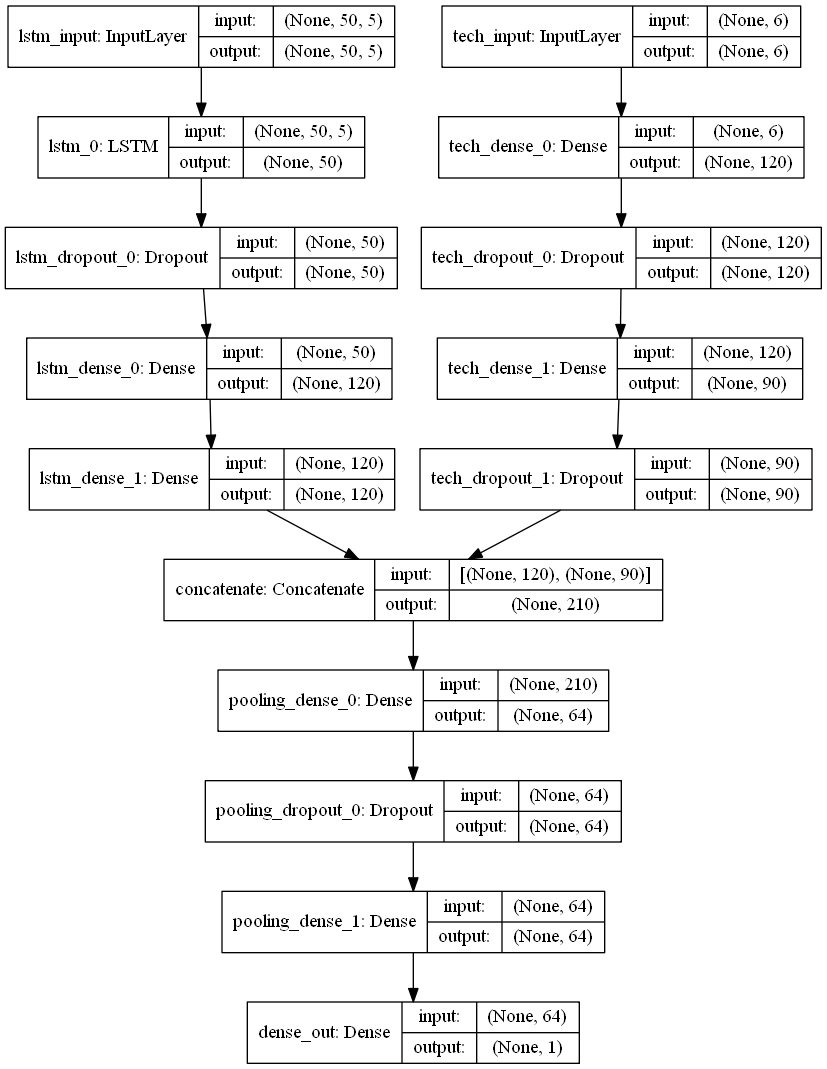
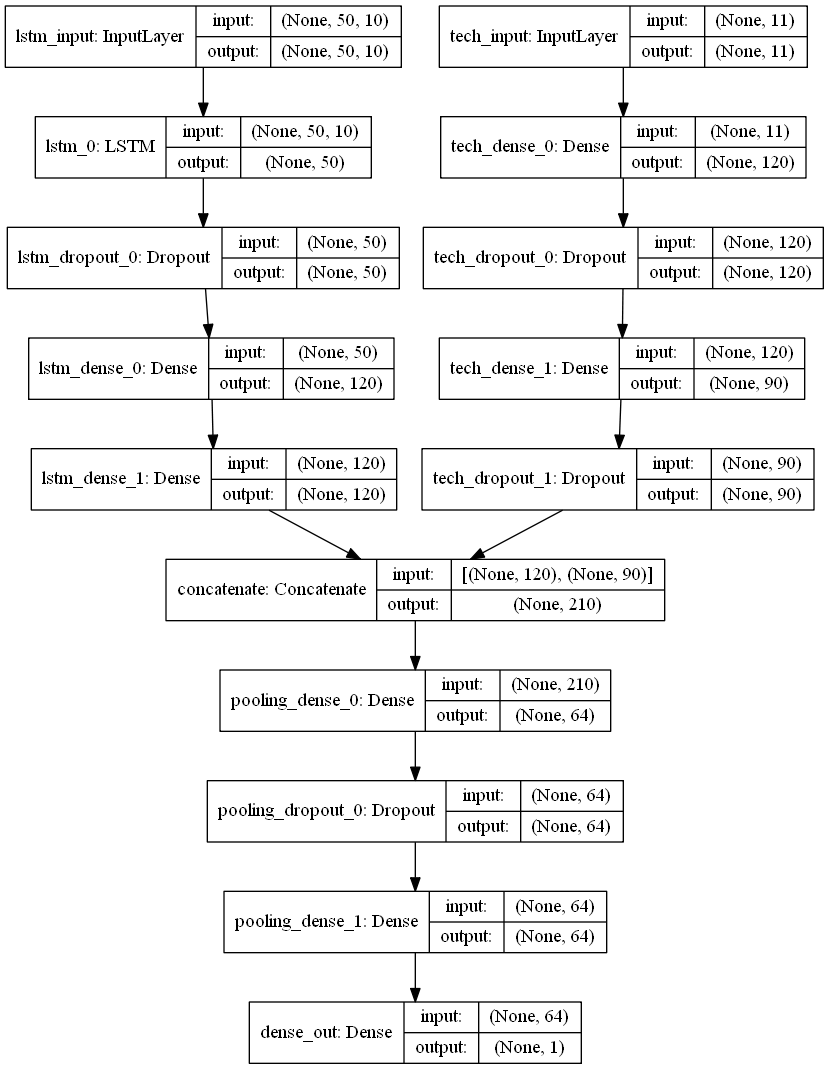
multi stock model

diff --git a/DataTransformer.py b/DataTransformer.py
@@ -3,6 +3,61 @@ from sklearn import preprocessing
 import numpy as np
 import statistics
 from DataModels import *
+import category_encoders as ce
+
+def add_column(arr, index):
+    indices = np.zeros((arr.shape[0], 1))
+    indices[:,0] = index
+    return np.append(arr, indices, axis=1)
+
+def multi_csv_to_dataset(paths: [str]):
+    index = 0
+    y_normalizers = []
+    for path in paths:
+        index = index + 1
+        transformed_data = csv_to_dataset(path)
+        y_normalizers.append(transformed_data.y_normalisers[0])
+        symbol_data = transformed_data.stock_data
+
+        # add index column
+        indices_ohlcv = np.zeros((symbol_data.ohlcv_histories.shape[0], symbol_data.ohlcv_histories.shape[1], 1))
+        indices_ohlcv[:,:,0] = index
+        symbol_data.ohlcv_histories = np.append(symbol_data.ohlcv_histories, indices_ohlcv, axis=2)
+
+        indices_tech_ind = np.zeros((symbol_data.technical_indicators.shape[0], 1))
+        indices_tech_ind[:,0] = index
+        symbol_data.technical_indicators = np.append(symbol_data.technical_indicators, indices_tech_ind, axis=1)
+
+        if index == 1:
+            dataset = symbol_data
+        else:
+            dataset.technical_indicators = np.concatenate([dataset.technical_indicators, symbol_data.technical_indicators])
+            dataset.ohlcv_histories = np.concatenate([dataset.ohlcv_histories, symbol_data.ohlcv_histories])
+            dataset.next_day_open_values = np.concatenate([dataset.next_day_open_values, symbol_data.next_day_open_values])
+
+    dataset.symbols_count = 5#len(paths)
+
+    # swap the index column to one-hot multiple columns
+    ohe = preprocessing.OneHotEncoder()
+    ohe.fit(dataset.technical_indicators[:,-1].reshape(-1,1))
+
+    ohlcv_index_cols = np.zeros((dataset.ohlcv_histories.shape[0], dataset.ohlcv_histories.shape[1], 5))
+    ohlcv_index_cols[:,:,0] = 1
+
+    #ohlcv_index_cols = ohe.transform(dataset.ohlcv_histories[:,:,-1].reshape(-1,1)).toarray()\
+    #    .reshape(dataset.ohlcv_histories.shape[0], dataset.ohlcv_histories.shape[1], -1)
+
+    dataset.ohlcv_histories = np.delete(dataset.ohlcv_histories, -1, axis=2)
+    dataset.ohlcv_histories = np.append(dataset.ohlcv_histories, ohlcv_index_cols, axis=2)
+
+    #tech_ind_index_cols = ohe.transform(dataset.technical_indicators[:,-1].reshape(-1,1)).toarray().reshape(dataset.technical_indicators.shape[0],-1)
+    tech_ind_index_cols = np.zeros((dataset.technical_indicators.shape[0],5))
+    tech_ind_index_cols[:,0] = 1
+    dataset.technical_indicators = np.delete(dataset.technical_indicators, -1, axis=1)
+    dataset.technical_indicators = np.append(dataset.technical_indicators, tech_ind_index_cols, axis=1)
+
+    return TransformedData(dataset, y_normalizers, ohe)
+        
 
 def csv_to_dataset(csv_path):
     data = pd.read_csv(csv_path)
@@ -38,8 +93,8 @@ def csv_to_dataset(csv_path):
 
     # pylint: disable=E1136  # pylint/issues/3139
     assert ohlcv_histories_normalized.shape[0] == next_day_open_values_normalized.shape[0] == technical_indicators_normalised.shape[0]
-    stock_data = StockData(ohlcv_histories_normalized, technical_indicators, next_day_open_values_normalized)
-    return TransformedData(stock_data, y_normalizer)
+    stock_data = StockData(ohlcv_histories_normalized, technical_indicators, next_day_open_values_normalized, 1)
+    return TransformedData(stock_data, [y_normalizer], None)
 
 def get_technical_indicators(histories):
     def calc_ema(values, time_period):

diff --git a/ModelBuilder.py b/ModelBuilder.py
@@ -46,21 +46,43 @@ class ModelBuilder:
         return model
 
     def split_test_data(self, dataset: TransformedData, test_split: float):
-        n = int(dataset.stock_data.ohlcv_histories.shape[0] * test_split) # ohlcv_histories.shape looks like (1168, 50, 5)
 
-        ohlcv_train = dataset.stock_data.ohlcv_histories[:n]
-        tech_ind_train = dataset.stock_data.technical_indicators[:n]
-        next_day_train = dataset.stock_data.next_day_open_values[:n]
-        train_dataset = StockData(ohlcv_train, tech_ind_train, next_day_train)
+        tech_ind_dims = dataset.stock_data.technical_indicators.shape[1] # technical_indicators.shape looks like (1168, 5)
+        ohlcv_shape = dataset.stock_data.ohlcv_histories.shape
 
-        ohlcv_test = dataset.stock_data.ohlcv_histories[n:]
-        tech_ind_test = dataset.stock_data.technical_indicators[n:]
-        next_day_test = dataset.stock_data.next_day_open_values[n:]
-        test_dataset = StockData(ohlcv_test, tech_ind_test, next_day_test)
+        ohlcv_train = np.empty((0, ohlcv_shape[1], ohlcv_shape[2]))
+        tech_ind_train = np.empty((0, tech_ind_dims))
+        next_day_train = np.empty((0))
 
-        return ModelTestingData(None, train_dataset, test_dataset, dataset.y_normaliser)
+        ohlcv_test = np.empty((0, ohlcv_shape[1], ohlcv_shape[2]))
+        tech_ind_test = np.empty((0, tech_ind_dims))
+        next_day_test = np.empty((0))
 
-        
+        tech_ind_symbols_range = range(tech_ind_dims-1, tech_ind_dims - 1 - dataset.stock_data.symbols_count, -1)
+
+        for i in tech_ind_symbols_range:
+            this_symbol = np.empty((0, tech_ind_dims))
+            next_day = np.empty((0))
+            ohlcv = np.empty((0, ohlcv_shape[1], ohlcv_shape[2]))
+            for j in range(len(dataset.stock_data.technical_indicators)):
+                tech_inds =  dataset.stock_data.technical_indicators[j]
+                if tech_inds[i] == 1:
+                    this_symbol = np.append(this_symbol, tech_inds.reshape(1,-1), axis=0)
+                    next_day = np.append(next_day, dataset.stock_data.next_day_open_values[j], axis=0)
+                    ohlcv = np.append(ohlcv, dataset.stock_data.ohlcv_histories[j].reshape((1,ohlcv_shape[1], ohlcv_shape[2])), axis=0)
+
+            n = int(this_symbol.shape[0] * test_split) 
+            ohlcv_train = np.append(ohlcv_train, ohlcv[:n], axis=0)
+            tech_ind_train = np.append(tech_ind_train, this_symbol[:n], axis=0)
+            next_day_train = np.append(next_day_train, next_day[:n], axis=0)
+            ohlcv_test = np.append(ohlcv_test, ohlcv[n:], axis=0)
+            tech_ind_test = np.append(tech_ind_test, this_symbol[n:], axis=0)
+            next_day_test = np.append(next_day_test, next_day[n:], axis=0)
+
+        train_dataset = StockData(ohlcv_train, tech_ind_train, next_day_train, dataset.stock_data.symbols_count)
+        test_dataset = StockData(ohlcv_test, tech_ind_test, next_day_test, dataset.stock_data.symbols_count)
+        assert train_dataset.ohlcv_histories.shape[0] + test_dataset.ohlcv_histories.shape[0] == dataset.stock_data.ohlcv_histories.shape[0]
+        return ModelTestingData(None, train_dataset, test_dataset, dataset.y_normalisers)
 
 
     def build_model(self, dataset, epochs: int):

diff --git a/ModelEvaluator.py b/ModelEvaluator.py
@@ -10,11 +10,11 @@ class ModelEvaluator:
         return y_predicted
 
     def plot(self, dataset: ModelTestingData):
-        y_test_predicted = self.predict(dataset.model, dataset.test_data, dataset.y_normaliser)
-        y_predicted = self.predict(dataset.model, dataset.train_data, dataset.y_normaliser)
+        y_test_predicted = self.predict(dataset.model, dataset.test_data, dataset.y_normalisers[0])
+        y_predicted = self.predict(dataset.model, dataset.train_data, dataset.y_normalisers[0])
 
-        unscaled_y_test = dataset.y_normaliser.inverse_transform(dataset.test_data.next_day_open_values)
-        unscaled_y_train = dataset.y_normaliser.inverse_transform(dataset.train_data.next_day_open_values)
+        unscaled_y_test = dataset.y_normalisers[0].inverse_transform(dataset.test_data.next_day_open_values.reshape(-1,1))
+        unscaled_y_train = dataset.y_normalisers[0].inverse_transform(dataset.train_data.next_day_open_values.reshape(-1,1))
 
         assert unscaled_y_test.shape == y_test_predicted.shape
         real_mse = np.mean(np.square(unscaled_y_test - y_test_predicted))
@@ -41,9 +41,9 @@ class ModelEvaluator:
             dataset.test_data.next_day_open_values)
         print("evaluation: " + str(evaluation))
 
-        y_test_predicted = self.predict(dataset.model, dataset.test_data, dataset.y_normaliser)
+        y_test_predicted = self.predict(dataset.model, dataset.test_data, dataset.y_normalisers[0])
 
-        unscaled_y_test = dataset.y_normaliser.inverse_transform(dataset.test_data.next_day_open_values)
+        unscaled_y_test = dataset.y_normalisers[0].inverse_transform(dataset.test_data.next_day_open_values.reshape(-1,1))
 
         assert unscaled_y_test.shape == y_test_predicted.shape
         real_mse = np.mean(np.square(unscaled_y_test - y_test_predicted))
@@ -51,9 +51,9 @@ class ModelEvaluator:
         print("scaled mean square error (test): " + str(scaled_mse))
 
         # also getting predictions for the entire dataset, just to see how it performs
-        y_predicted = self.predict(dataset.model, dataset.train_data, dataset.y_normaliser)
+        y_predicted = self.predict(dataset.model, dataset.train_data, dataset.y_normalisers[0])
 
-        unscaled_y_train = dataset.y_normaliser.inverse_transform(dataset.train_data.next_day_open_values)
+        unscaled_y_train = dataset.y_normalisers[0].inverse_transform(dataset.train_data.next_day_open_values.reshape(-1,1))
 
         assert unscaled_y_train.shape == y_predicted.shape
         real_mse = np.mean(np.square(unscaled_y_train - y_predicted))

diff --git a/DataModels.py b/DataModels.py
@@ -1,17 +1,19 @@
 class StockData:
-    def __init__(self, ohlcv_histories, technical_indicators, next_day_open_values):
+    def __init__(self, ohlcv_histories, technical_indicators, next_day_open_values, symbols_count):
         self.ohlcv_histories = ohlcv_histories
         self.technical_indicators = technical_indicators
         self.next_day_open_values = next_day_open_values
+        self.symbols_count = symbols_count
 
 class TransformedData:
-    def __init__(self, stock_data: StockData, y_normaliser):
+    def __init__(self, stock_data: StockData, y_normalisers, symbol_encoder):
         self.stock_data = stock_data
-        self.y_normaliser = y_normaliser
+        self.y_normalisers = y_normalisers
+        self.symbol_encoder = symbol_encoder
 
 class ModelTestingData(TransformedData):
-    def __init__(self, model, train_data: StockData, test_data: StockData, y_normaliser):
+    def __init__(self, model, train_data: StockData, test_data: StockData, y_normalisers):
         self.model = model
         self.train_data = train_data
         self.test_data = test_data
-        self.y_normaliser = y_normaliser
+        self.y_normalisers = y_normalisers

diff --git a/__init__.py b/__init__.py
@@ -1,16 +1,22 @@
 from ModelBuilder import ModelBuilder
 from ModelEvaluator import ModelEvaluator
-from DataTransformer import csv_to_dataset
+from DataTransformer import multi_csv_to_dataset
 from ModelLoader import ModelLoader
 
-dataset = csv_to_dataset('test_data/SHOP_daily.csv')
+dataset = multi_csv_to_dataset([
+  'test_data/SHOP_daily.csv',
+  # 'test_data/TD_daily.csv',
+  # 'test_data/ENB_daily.csv',
+  # 'test_data/BA_daily.csv',
+  # 'test_data/TSLA_daily.csv'
+  ])
 model_loader = ModelLoader()
 
 #test_data = ModelBuilder().build_model(dataset, 150)
-#model_loader.save_model(test_data.model, 'twobranch-2020-04-02')
+#model_loader.save_model(test_data.model, 'multistock-2020-04-09')
 
 test_data = ModelBuilder().split_test_data(dataset, 0.7)
-test_data.model = model_loader.load_model('120-120.h5')
+test_data.model = model_loader.load_model('multistock-2020-04-09.h5')
 
 evaluator = ModelEvaluator()
 evaluator.analyze(test_data)

diff --git a/PortfolioManagementSystem.py b/PortfolioManagementSystem.py
@@ -1,4 +1,4 @@
-from AlpacaPaperApi import AlpacaPaperApi
+from Alpaca.AlpacaPaperApi import AlpacaPaperApi
 from ModelRunner import ModelRunner
 import pandas as pd
 import numpy as np
